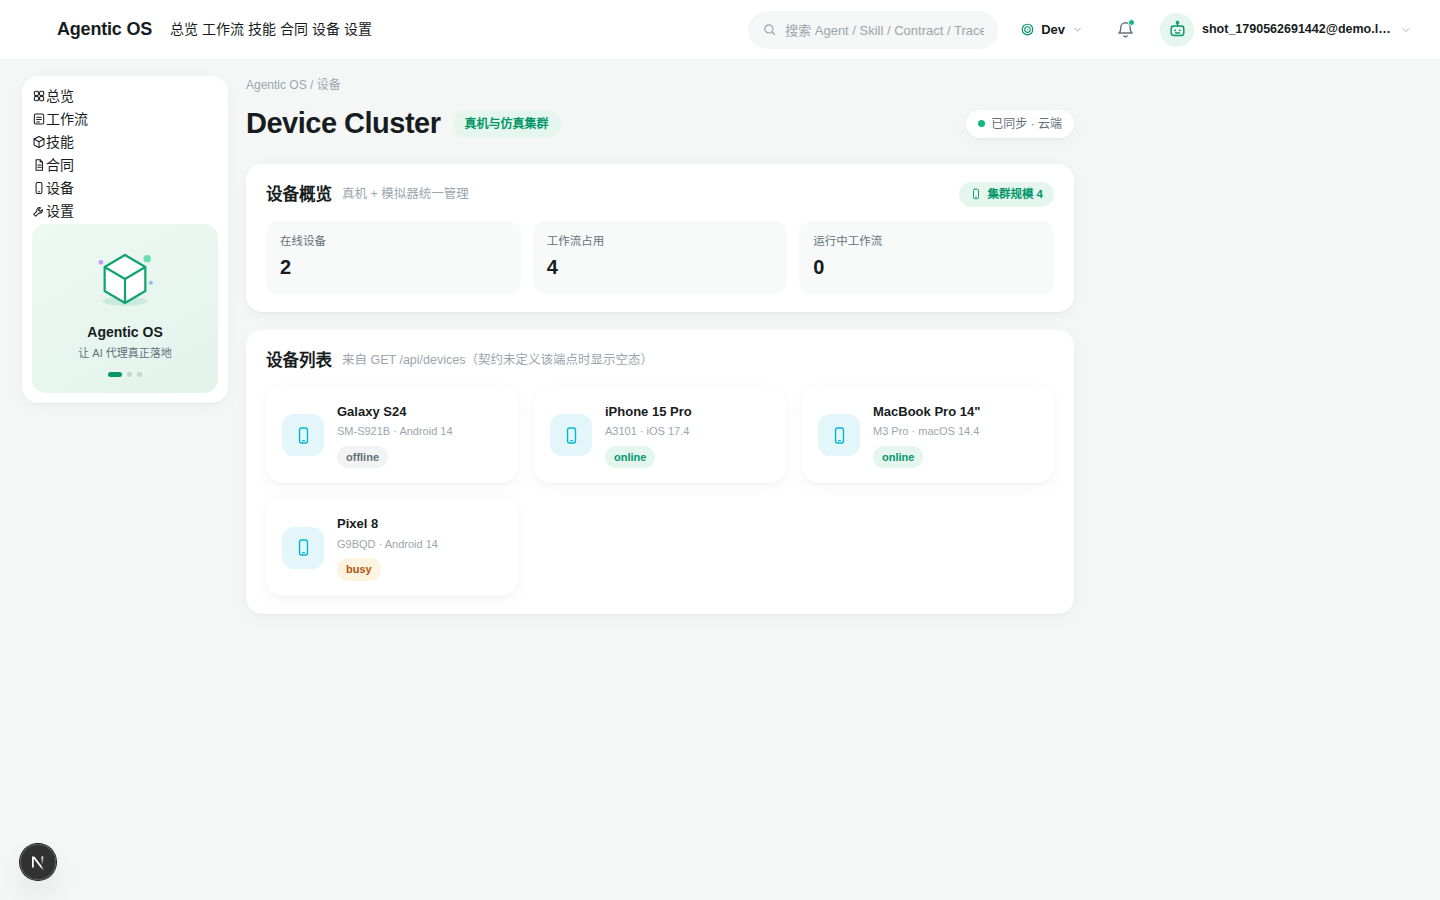
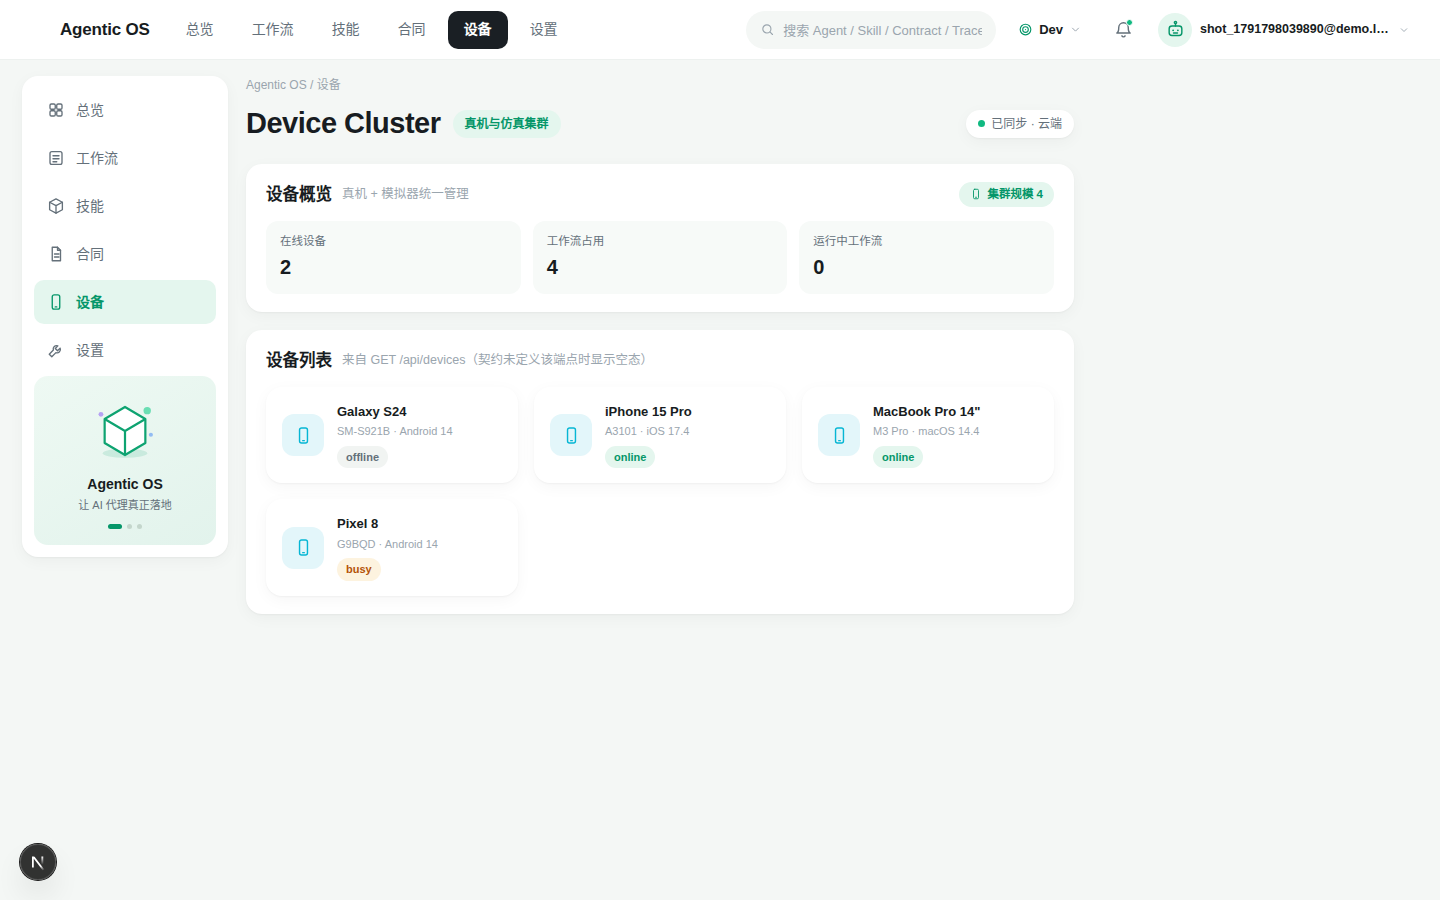
fix(ui): 修复导航排版失效与 hover 高亮，小白一键部署，重出截图
UI 排版（核心 bug）：
- .top-tabs / .sidenav 样式选择器写的是 button，但组件用 <Link> 渲染为 <a>，
  选择器完全不匹配 → 间距/悬停/激活态全部失效，导航挤成一团
- 两处选择器改为同时覆盖 a 与 button；加大 gap/padding/字号，补 transition

一键部署：
- start-local.mjs 升级为小白友好：Node 版本检查 → 缺依赖自动 npm install
  → 启动 → 就绪后自动打开浏览器（NO_OPEN=1 关闭）
- README 快速开始改为 clone→一键命令→打开浏览器的零门槛流程

E2E 稳定性：
- 两处固定 sleep 改为 waitForURL 轮询（公网高延迟下 22/22 稳定通过）

gh-push 二进制修复（README 图裂根因）：
- 原用 utf8 读文件，PNG 魔数 0x89 被替换为 U+FFFD，远端图片全损坏
- 改为统一 base64 创建 blob（并发 8），文本与二进制同一路径

截图：重新生成 README 全部 7 张截图（已修复排版）

diff --git a/frontend/styles/app.css b/frontend/styles/app.css
@@ -5,13 +5,16 @@
 
 /* ===== 顶部导航 ===== */
 body:has(.auth-page){background:var(--bg)}
-.topnav{position:sticky;top:0;z-index:60;background:#fff;border-bottom:1px solid var(--border);height:60px;display:flex;align-items:center;gap:18px;padding:0 20px}
-.brand{display:flex;align-items:center;gap:9px;font-size:18px;font-weight:800;letter-spacing:-.2px;white-space:nowrap}
+.topnav{position:sticky;top:0;z-index:60;background:#fff;border-bottom:1px solid var(--border);height:60px;display:flex;align-items:center;gap:20px;padding:0 22px}
+.brand{display:flex;align-items:center;gap:10px;font-size:17px;font-weight:800;letter-spacing:-.2px;white-space:nowrap;color:var(--t1)}
+.brand:hover{color:var(--t1)}
 .brand .logo{width:28px;height:28px;flex:none}
-.top-tabs{display:flex;align-items:center;gap:4px}
-.top-tabs button{padding:8px 15px;border-radius:var(--r-el);color:var(--t2);font-size:13.5px;font-weight:500;min-height:36px}
-.top-tabs button:hover{color:var(--t1)}
-.top-tabs button.active{background:#1a1f24;color:#fff;font-weight:600}
+.top-tabs{display:flex;align-items:center;gap:6px}
+/* 选择器同时覆盖 a（Link 渲染结果）与 button，避免只匹配 button 导致样式整体失效 */
+.top-tabs a,.top-tabs button{display:inline-flex;align-items:center;padding:8px 16px;border-radius:var(--r-el);color:var(--t2);font-size:14px;font-weight:500;line-height:1.4;min-height:38px;white-space:nowrap;transition:background .16s,color .16s}
+.top-tabs a:hover,.top-tabs button:hover{background:var(--bg);color:var(--t1)}
+.top-tabs a.active,.top-tabs button.active{background:#1a1f24;color:#fff;font-weight:600}
+.top-tabs a.active:hover,.top-tabs button.active:hover{background:#1a1f24;color:#fff}
 .top-right{margin-left:auto;display:flex;align-items:center;gap:12px}
 .searchbox{display:flex;align-items:center;gap:8px;background:var(--bg);border-radius:var(--r-pill);padding:0 14px;height:38px;width:250px;color:var(--t3)}
 .searchbox input{border:0;background:none;width:100%;font-size:16px}
@@ -36,11 +39,12 @@ body:has(.auth-page){background:var(--bg)}
 
 /* ===== 三栏布局 ===== */
 .app{display:grid;grid-template-columns:206px minmax(0,1fr) 326px;gap:18px;padding:16px 22px 28px;max-width:1760px;margin:0 auto;align-items:start}
-.sidenav{background:#fff;border-radius:var(--r-card);box-shadow:var(--shadow);padding:10px;display:flex;flex-direction:column;gap:2px;position:sticky;top:76px;max-height:calc(100vh - 96px);overflow:auto}
-.sidenav button{display:flex;align-items:center;gap:10px;padding:10px 12px;border-radius:var(--r-el);color:var(--t2);font-size:13px;font-weight:500;text-align:left;min-height:44px;width:100%}
-.sidenav button svg.ic{font-size:17px}
-.sidenav button:hover{background:var(--bg);color:var(--t1)}
-.sidenav button.active{background:var(--green-bg);color:var(--green-deep);font-weight:700}
+.sidenav{background:#fff;border-radius:var(--r-card);box-shadow:var(--shadow);padding:12px;display:flex;flex-direction:column;gap:4px;position:sticky;top:76px;max-height:calc(100vh - 96px);overflow:auto}
+/* 同上：Link 渲染为 <a>，选择器必须覆盖 a，否则间距/悬停/激活态全部失效 */
+.sidenav a,.sidenav button{display:flex;align-items:center;gap:11px;padding:11px 13px;border-radius:var(--r-el);color:var(--t2);font-size:14px;font-weight:500;line-height:1.45;text-align:left;min-height:44px;width:100%;white-space:nowrap;transition:background .16s,color .16s}
+.sidenav a svg.ic,.sidenav button svg.ic{font-size:18px;flex:none}
+.sidenav a:hover,.sidenav button:hover{background:var(--bg);color:var(--t1)}
+.sidenav a.active,.sidenav button.active{background:var(--green-bg);color:var(--green-deep);font-weight:700}
 .side-brand{margin-top:auto;background:linear-gradient(150deg,#eef9f3,#e2f3ec);border-radius:14px;padding:16px 14px;text-align:center;position:relative;overflow:hidden}
 .side-brand .art{width:74px;height:74px;margin:2px auto 6px;display:block}
 .side-brand b{display:block;font-size:14px}

diff --git a/README.md b/README.md
@@ -110,13 +110,17 @@ Node 与 Cloud Functions 上的前提。
 
 ## 快速开始
 
-### A. 本地最小化部署（推荐：一条命令，无需任何云平台）
+### A. 本地一键启动（推荐 · 零门槛）
+
+前置条件只有一个：**安装 [Node.js ≥ 20.9](https://nodejs.org/zh-cn)（LTS）**。不需要数据库、不需要云账号、不需要联网。
 
 ```bash
+git clone https://github.com/xiaopengs/agentic-os-workbench.git
+cd agentic-os-workbench
 node scripts/start-local.mjs
 ```
 
-启动后：
+脚本会**自动完成一切**：检测 Node 版本 → 首次自动安装依赖（约 1-2 分钟，仅一次）→ 启动服务 → 自动打开浏览器。
 
 | 服务 | 地址 |
 |---|---|
@@ -126,11 +130,10 @@ node scripts/start-local.mjs
 - 数据落在 `./.data/store.json`（纯文本，可直接查看 / 编辑，删除即重置）
 - **无需登录、无需联网、无需 EdgeOne**；AI Copilot 默认走本地模拟流
 - 停止：`Ctrl+C`（两个子进程一并退出）
-- 端口可用 `API_PORT` / `WEB_PORT` 覆盖
+- 端口可用 `API_PORT` / `WEB_PORT` 覆盖；`NO_OPEN=1` 关闭自动打开浏览器
+- 首次打开前端需编译约 20-40 秒，属正常现象
 
-仅需 4 个运行期依赖：`bcryptjs`、`jose`、`tsx` + 前端 next/react/tailwind/swr。
-
-> 首次运行需先 `npm install`（根目录）与 `cd frontend && npm install`。
+> 已装好依赖时脚本秒级启动，跳过安装步骤。
 
 ### B. 单端口自包含部署（生产形态，推荐用于托管 / 容器）
 
